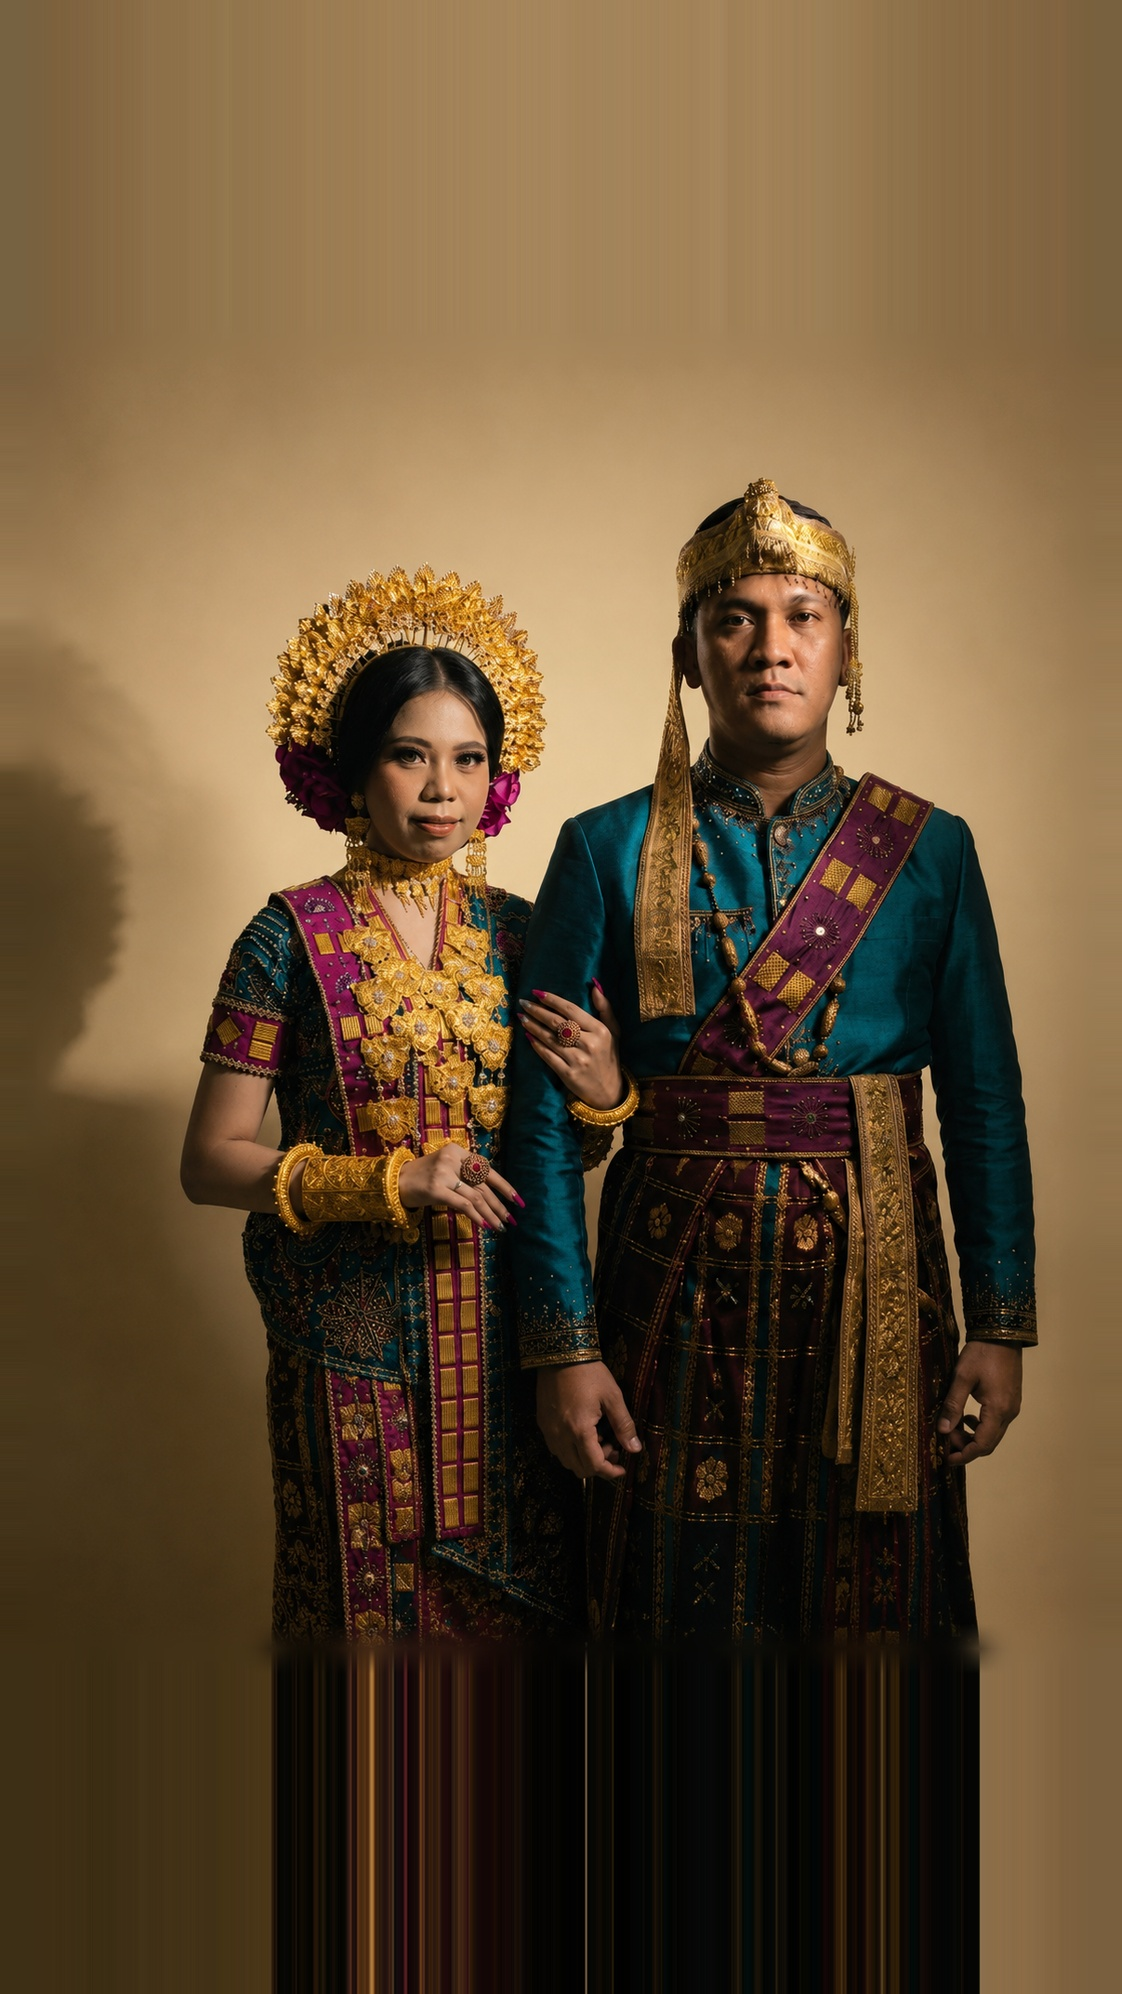
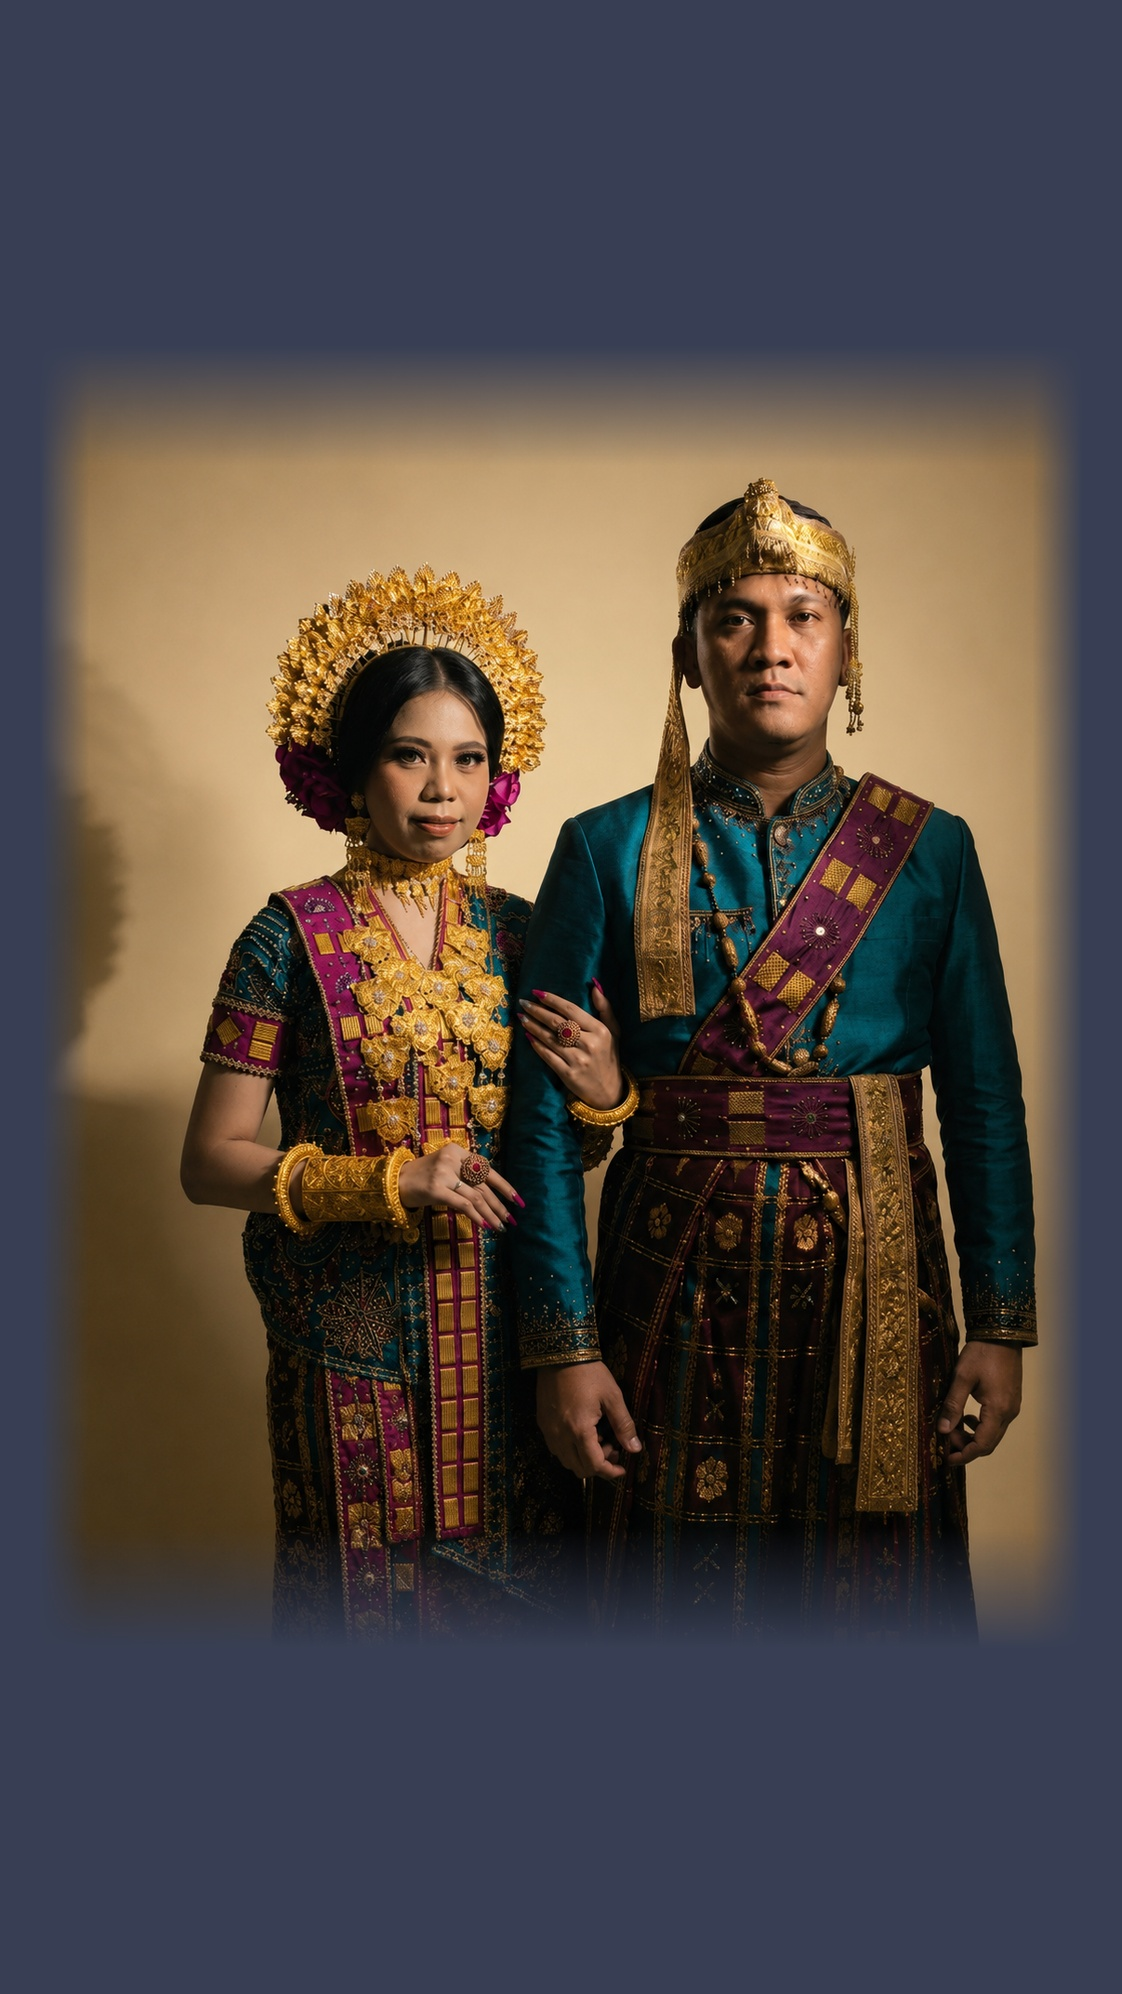
feat: apply premium vignette fade-out at borders to eliminate stretch lines

diff --git a/index.html b/index.html
@@ -2741,7 +2741,7 @@ function _pauseAudio(){
 				</div>
 				</div>
 				</div>
-		<div class="elementor-element elementor-element-633fbd16 e-con-full e-flex e-con e-child" data-id="633fbd16" data-element_type="container" data-e-type="container" data-settings="{&quot;background_background&quot;:&quot;slideshow&quot;,&quot;jet_parallax_layout_list&quot;:[],&quot;background_slideshow_transition_duration&quot;:2000,&quot;background_slideshow_ken_burns&quot;:&quot;yes&quot;,&quot;background_slideshow_gallery&quot;:[{&quot;id&quot;:&quot;kyb1&quot;,&quot;url&quot;:&quot;kyb_bg.jpg?v=2&quot;}],&quot;background_slideshow_loop&quot;:&quot;yes&quot;,&quot;background_slideshow_slide_duration&quot;:3000,&quot;background_slideshow_slide_transition&quot;:&quot;fade&quot;,&quot;background_slideshow_ken_burns_zoom_direction&quot;:&quot;in&quot;}">
+		<div class="elementor-element elementor-element-633fbd16 e-con-full e-flex e-con e-child" data-id="633fbd16" data-element_type="container" data-e-type="container" data-settings="{&quot;background_background&quot;:&quot;slideshow&quot;,&quot;jet_parallax_layout_list&quot;:[],&quot;background_slideshow_transition_duration&quot;:2000,&quot;background_slideshow_ken_burns&quot;:&quot;yes&quot;,&quot;background_slideshow_gallery&quot;:[{&quot;id&quot;:&quot;kyb1&quot;,&quot;url&quot;:&quot;kyb_bg.jpg?v=3&quot;}],&quot;background_slideshow_loop&quot;:&quot;yes&quot;,&quot;background_slideshow_slide_duration&quot;:3000,&quot;background_slideshow_slide_transition&quot;:&quot;fade&quot;,&quot;background_slideshow_ken_burns_zoom_direction&quot;:&quot;in&quot;}">
 		<div class="elementor-element elementor-element-7210558a e-con-full e-flex e-con e-child" data-id="7210558a" data-element_type="container" data-e-type="container" data-settings="{&quot;jet_parallax_layout_list&quot;:[]}">
 				<div class="elementor-element elementor-element-718c521 elementor-widget-mobile__width-initial elementor-widget elementor-widget-spacer" data-id="718c521" data-element_type="widget" data-e-type="widget" data-widget_type="spacer.default">
 				<div class="elementor-widget-container">